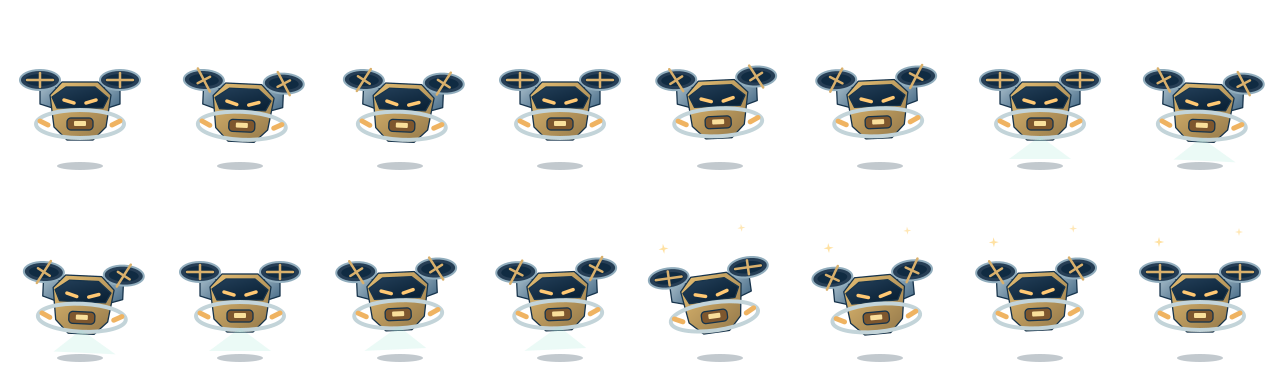
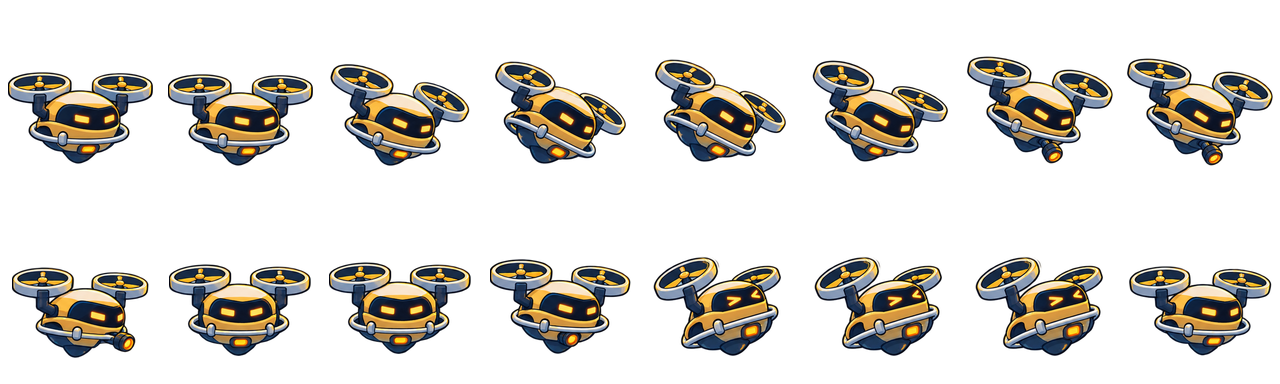
Physics Force Lab v5.0: illustrated characters, animation poses and Nova worlds

Changed region(s): [[0.0, 0.125, 1.0, 0.4375], [0.0, 0.6562, 1.0, 0.9375]]

diff --git a/apps/web/public/games/physics-force-lab/character-sprite-data.js b/apps/web/public/games/physics-force-lab/character-sprite-data.js
@@ -1,2 +1,2 @@
-/* Generated from tools/physics-character-art.cjs; original artwork. */
[1 lines of base64/hex data omitted]
+/* Packed from the illustrated pose sources; see tools/physics-art-source/README.md. */
[1 lines of base64/hex data omitted]

diff --git a/apps/web/public/games/physics-force-lab/adventure.js b/apps/web/public/games/physics-force-lab/adventure.js
@@ -7,6 +7,7 @@
   const player={x:80,y:420,vx:0,vy:0,ground:true,facing:1,animation:0,flash:0,landing:0,cheer:0};
   const C=window.PhysicsCharacterSprites,sprites=C?{hero:new C.Animator('player'),professor:new C.Animator('professor'),pip:new C.Animator('helper'),patrols:Array.from({length:4},()=>new C.Animator('maintenance'))}:null;
   C?.load(['player','professor','helper','maintenance']);
+  const worldArt=window.PhysicsWorldArt;
   const patrolBumps=[0,0,0,0];
   let width=960,height=540,scale=1,camera=0,time=0,last=performance.now(),saveElapsed=0,nearest=null,images={};
   let terrain=A.route(m),stationX=terrain.stations,endX=terrain.end,length=terrain.length;
@@ -26,6 +27,7 @@
   function launch(i,retry=false){
     if(!A.isUnlocked(profile,i))return;
     checkpoint();closeAll();profile.current=i;m=A.missions[i];terrain=A.route(m);stationX=terrain.stations;endX=terrain.end;length=terrain.length;
+    worldArt?.load(m.bg);
     if(retry)delete profile.checkpoints[m.id];
     cp=profile.checkpoints[m.id]||{x:80,solved:[],cells:[],labs:{}};
     profile.checkpoints[m.id]=cp;Object.assign(player,{x:cp.x,y:420,vx:0,vy:0,ground:true,flash:0,landing:0,cheer:0});
@@ -300,13 +302,14 @@
   }
   function draw(){
     ctx.clearRect(0,0,width,height);const bg=images[m.bg];
-    if(bg){const factor=Math.max(width/bg.width,height/bg.height),bw=bg.width*factor,bh=bg.height*factor;ctx.drawImage(bg,(width-bw)/2,(height-bh)/2,bw,bh);}else{const g=ctx.createLinearGradient(0,0,0,height);g.addColorStop(0,'#21475b');g.addColorStop(1,'#122739');ctx.fillStyle=g;ctx.fillRect(0,0,width,height);}
-    ctx.fillStyle='#071a2a77';ctx.fillRect(0,0,width,height);
+    if(worldArt)worldArt.background(ctx,m.bg,width,height,time,profile.settings.reduced);
+    else if(bg){const factor=Math.max(width/bg.width,height/bg.height),bw=bg.width*factor,bh=bg.height*factor;ctx.drawImage(bg,(width-bw)/2,(height-bh)/2,bw,bh);}else{const g=ctx.createLinearGradient(0,0,0,height);g.addColorStop(0,'#21475b');g.addColorStop(1,'#122739');ctx.fillStyle=g;ctx.fillRect(0,0,width,height);}
+    if(!worldArt){ctx.fillStyle='#071a2a77';ctx.fillRect(0,0,width,height);}
     ctx.save();ctx.translate(-camera,height-460);
     // Foreground architecture gives the painted background a coherent, traversable scale.
-    for(let x=0;x<length;x+=160){rect(x,420,156,42,'#28495a',2);rect(x,420,156,5,'#82b7b2',1);rect(x+14,437,128,7,'#1c3546',2);}
+    for(let x=0;x<length;x+=160){if(worldArt){worldArt.platform(ctx,x,420,160,42,m.color);continue;}rect(x,420,156,42,'#28495a',2);rect(x,420,156,5,'#82b7b2',1);rect(x+14,437,128,7,'#1c3546',2);}
     for(let x=350;x<length;x+=800){rect(x,250,9,170,'#29485b',2);rect(x-15,245,48,12,'#557e8c',4);ellipse(x+8,255,16,7,m.color);}
-    for(const p of terrain.platforms){rect(p.x,p.y,p.w,11,'#8bacb7',3);rect(p.x+10,p.y+11,8,420-p.y-11,'#3c6174',2);rect(p.x+p.w-18,p.y+11,8,420-p.y-11,'#3c6174',2);for(let j=0;j<6;j++)rect(p.x+18+j*25,p.y+3,12,4,m.color,1);}
+    for(const p of terrain.platforms){if(worldArt)worldArt.platform(ctx,p.x,p.y,p.w,14,m.color);else rect(p.x,p.y,p.w,11,'#8bacb7',3);rect(p.x+10,p.y+11,8,420-p.y-11,'#3c6174',2);rect(p.x+p.w-18,p.y+11,8,420-p.y-11,'#3c6174',2);for(let j=0;j<6;j++)rect(p.x+18+j*25,p.y+3,12,4,m.color,1);}
     // Persistent, visible workshop restoration: photographs, plants and repaired equipment.
     const wallTop=270-Math.max(0,Math.ceil(A.missions.length/5)-3)*27;
     rect(20,wallTop-13,260,377-wallTop,'#132e40',9);rect(33,wallTop,234,363-wallTop,'#275367',4);
@@ -343,7 +346,8 @@
   ['music','effects'].forEach(k=>{const input=$(k+'Volume');input.value=profile.settings[k]*100;$(k+'Output').textContent=input.value+'%';input.oninput=()=>{profile.settings[k]=Number(input.value)/100;$(k+'Output').textContent=input.value+'%';audio.unlock();audio.volumes();checkpoint();};});
   const reduced=window.matchMedia('(prefers-reduced-motion: reduce)').matches;profile.settings.reduced||=reduced;$('reduceMotion').checked=profile.settings.reduced;document.body.classList.toggle('reduce-motion',profile.settings.reduced);
   $('reduceMotion').onchange=()=>{profile.settings.reduced=$('reduceMotion').checked;document.body.classList.toggle('reduce-motion',profile.settings.reduced);checkpoint();};
-  A.missions.forEach(mission=>{const im=new Image();im.onload=()=>images[mission.bg]=im;im.src='./assets/backgrounds/'+mission.bg;});
+  if(worldArt)worldArt.load(m.bg);
+  else for(const bg of new Set(A.missions.map(mission=>mission.bg))){const im=new Image();im.onload=()=>images[bg]=im;im.src='./assets/backgrounds/'+bg;}
   $('campaignCount').textContent=`${A.missions.length} adventure missions`;
   const completed=Object.values(profile.completed).filter(Boolean).length;$('homeProgress').textContent=completed?`${completed}/${A.missions.length} missions restored • Workshop reputation: ${A.score(profile)}`:'Your workshop is waiting. Meet Pip and begin the recovery.';$('startBtn').textContent=Object.keys(profile.checkpoints).length?'Continue adventure':'Begin adventure';
   window.PhysicsRevisionUI?.create({document,A,R:window.PhysicsRevision,profile,storage,open,close});

diff --git a/apps/web/public/games/physics-force-lab/world-art.js b/apps/web/public/games/physics-force-lab/world-art.js
@@ -1,0 +1,54 @@
+(function(root,factory){const api=factory(root);if(typeof module==='object'&&module.exports)module.exports=api;else root.PhysicsWorldArt=api;})(typeof globalThis!=='undefined'?globalThis:this,function(root){
+  'use strict';
+  const locations=['workshop','motion','gravity','friction','energy','machines','circuit','magnet','waves','pressure','space','core'];
+  const aliases={
+    'bg-stadium-throw.png':'motion','bg-bicycle-momentum.png':'motion','bg-playground-slide.png':'motion',
+    'bg-water-rescue.png':'pressure','bg-orbit-space.png':'space','bg-mars-test.png':'space',
+    'bg-bridge-clearance.png':'machines','bg-springboard-energy.png':'energy','bg-storm-rescue.png':'pressure',
+    'bg-projectile-range.png':'motion','bg-windy-drone-delivery.png':'waves','bg-friction-track.png':'friction',
+    'bg-circuit-room.png':'circuit','bg-gravity-lab.png':'gravity','bg-safety-brake-zone.png':'friction',
+    'bg-magnet-zone.png':'magnet','bg-solar-boost.png':'energy','bg-cargo-ramp.png':'machines',
+    'bg-energy-park.png':'energy','bg-crane-yard.png':'machines','bg-magnetic-recycling.png':'magnet','bg-physics-boss.png':'core'
+  };
+  const originals=['force-lab','motion-track','gravity-chamber','friction-factory','energy-reactor','machines-workshop','circuit-lab','magnet-zone','wave-tunnel','pressure-dome','space-lab','quantum-core'];
+  originals.forEach((name,i)=>aliases[`level-${String(i+1).padStart(2,'0')}-${name}.png`]=locations[i]);
+  locations.forEach(name=>aliases[name+'.webp']=name);
+  const cache=new Map(),limit=3;
+  const keyFor=src=>String(src).split('/').pop().split('?')[0];
+  function location(src){return aliases[keyFor(src)]||'workshop';}
+  function source(src){return './assets/worlds/'+location(src)+'.webp';}
+  function load(src){
+    const key=location(src);if(cache.has(key)){const r=cache.get(key);cache.delete(key);cache.set(key,r);return r.promise;}
+    if(!root.Image)return Promise.resolve(false);
+    const record={image:null,ready:false,fallback:false,promise:null};
+    record.promise=new Promise(resolve=>{
+      const im=new root.Image();record.image=im;
+      im.onload=()=>{record.ready=true;resolve(true);};
+      im.onerror=()=>{if(!record.fallback){record.fallback=true;im.src='./assets/backgrounds/'+keyFor(src);}else resolve(false);};
+      im.src=source(src);
+    });cache.set(key,record);
+    while(cache.size>limit)cache.delete(cache.keys().next().value);
+    return record.promise;
+  }
+  function cover(iw,ih,w,h){const s=Math.max(w/iw,h/ih);return {x:(w-iw*s)/2,y:(h-ih*s)/2,w:iw*s,h:ih*s};}
+  function background(ctx,src,w,h,time=0,reduced=false){
+    load(src);const r=cache.get(location(src));ctx.save();
+    // One logical pixel of overscan also covers rounded physical canvas dimensions.
+    ctx.fillStyle='#091b30';ctx.fillRect(-1,-1,w+2,h+2);
+    if(r?.ready){const im=r.image,box=cover(im.naturalWidth,im.naturalHeight,w+2,h+2);ctx.drawImage(im,box.x-1,box.y-1,box.w,box.h);}
+    else{const g=ctx.createLinearGradient(0,0,0,h);g.addColorStop(0,'#193c70');g.addColorStop(1,'#091b30');ctx.fillStyle=g;ctx.fillRect(0,0,w,h);}
+    // Low-contrast atmosphere keeps foreground controls, characters and targets readable.
+    const shade=ctx.createLinearGradient(0,0,0,h);shade.addColorStop(0,'#0312290d');shade.addColorStop(.5,'#0312291a');shade.addColorStop(1,'#03122988');ctx.fillStyle=shade;ctx.fillRect(0,0,w,h);
+    if(!reduced){ctx.fillStyle='#b9fff5';for(let i=0;i<7;i++){const x=((i*157+31)%997)/997*w,y=h*(.12+((i*47)%53)/100),alpha=.025+.035*(1+Math.sin(time*.8+i));ctx.globalAlpha=alpha;ctx.beginPath();ctx.arc(x,y,1.3,0,Math.PI*2);ctx.fill();}}
+    ctx.restore();return true;
+  }
+  function platform(ctx,x,y,w,h,accent='#72e6d1',moving=false){
+    if(w<=0||h<=0)return;ctx.save();
+    const g=ctx.createLinearGradient(0,y,0,y+Math.min(h,30));g.addColorStop(0,'#738eaa');g.addColorStop(.22,'#344c68');g.addColorStop(1,'#142a45');ctx.fillStyle=g;ctx.beginPath();ctx.roundRect(x,y,w,h,Math.min(5,h/3));ctx.fill();
+    ctx.fillStyle='#d1e5e6';ctx.fillRect(x+2,y,Math.max(0,w-4),2);ctx.fillStyle=moving?'#ffd074':accent;ctx.fillRect(x+4,y+3,Math.max(0,w-8),3);
+    ctx.fillStyle='#101f36';for(let n=12;n<w-15;n+=32)ctx.fillRect(x+n,y+8,17,Math.min(4,Math.max(1,h-9)));
+    if(h>18){ctx.fillStyle='#8eabc1';for(const bx of [x+7,x+w-8]){ctx.beginPath();ctx.arc(bx,y+15,1.5,0,Math.PI*2);ctx.fill();}}
+    ctx.restore();
+  }
+  return {locations,aliases,location,source,load,cover,background,platform,status:()=>({limit,entries:[...cache].map(([key,r])=>({key,ready:r.ready,fallback:r.fallback}))})};
+});

diff --git a/apps/web/public/games/physics-force-lab/game.js b/apps/web/public/games/physics-force-lab/game.js
@@ -4,6 +4,7 @@
   const canvas = document.getElementById("gameCanvas");
   const ctx = canvas.getContext("2d");
   const characters=window.PhysicsCharacterSprites;
+  const worldArt=window.PhysicsWorldArt;
   const $ = id => document.getElementById(id);
 
   const ui = {
@@ -516,9 +517,10 @@
   }
 
   async function loadAssets(){
-    const paths=[...ASSETS.backgrounds,...Object.values(ASSETS.items),...Object.values(ASSETS.effects)];
+    const paths=[...(worldArt?[]:ASSETS.backgrounds),...Object.values(ASSETS.items),...Object.values(ASSETS.effects)];
     const loaded=await Promise.all(paths.map(loadImage));
     await characters?.load(['player','professor','helper','glitch','drone','magnetBot','boss']);
+    if(worldArt)await worldArt.load(ASSETS.backgrounds[level().bg]);
     paths.forEach((p,i)=>images[p]=loaded[i]);
   }
 
@@ -733,6 +735,7 @@
   }
 
   function buildLevel(){
+    worldArt?.load(ASSETS.backgrounds[level().bg]);
     state.transitioning=false;
     const lv=level();
     const targets=missionTargets();
@@ -1321,6 +1324,7 @@
   }
 
   function drawCover(src){
+    if(worldArt){worldArt.background(ctx,src,W,viewHeight,state.t,state.reduced);return;}
     const im=image(src);
     if(!im){ctx.fillStyle="#06122a";ctx.fillRect(0,0,W,viewHeight);return;}
     const r=Math.max(W/im.naturalWidth,viewHeight/im.naturalHeight);
@@ -1359,6 +1363,7 @@
 
   function drawWorld(){
     for(const pl of state.world.platforms){
+      if(worldArt){worldArt.platform(ctx,pl.x,pl.y,pl.w,pl.h,toolColor(),pl.type==="moving");continue;}
       if(pl.type==="ground"){
         ctx.fillStyle="rgba(3,8,18,.78)";
         ctx.fillRect(pl.x,pl.y,pl.w,pl.h);

diff --git a/apps/web/public/games/physics-force-lab/index.html b/apps/web/public/games/physics-force-lab/index.html
@@ -43,6 +43,7 @@
   </article></dialog>
   <script src="./character-sprite-data.js"></script>
   <script src="./character-sprites.js"></script>
+  <script src="./world-art.js"></script>
   <script src="./adventure-chapter2.js"></script>
   <script src="./adventure-grade7.js"></script>
   <script src="./adventure-heat-ui.js"></script>

diff --git a/apps/web/public/games/physics-force-lab/original-labs.html b/apps/web/public/games/physics-force-lab/original-labs.html
@@ -109,6 +109,7 @@
   </noscript>
   <script src="./character-sprite-data.js"></script>
   <script src="./character-sprites.js"></script>
+  <script src="./world-art.js"></script>
   <script src="./legacy-visuals.js"></script>
   <script src="./game.js"></script>
   <script src="./display-controls.js"></script>

diff --git a/docs/releases/physics-force-lab-v5.0.md b/docs/releases/physics-force-lab-v5.0.md
@@ -1,0 +1,45 @@
+# Physics Force Lab v5.0 — The Illustrated World of Nova
+
+All eight playable/NPC/enemy roles now use the polished illustrated style of the approved v4.9 thumbnail: the young scientist, Professor Newtonia, Pip, orange Glitch robot, attack drone, Magnet robot, purple GlitchBot and gold maintenance patrol. Ninety-six drawn source poses are packed into all 227 existing animation frames and 40 action clips. Running, jumping, landing, repairs, tool use, celebration, scanning, attacks, recoil and shutdown now use cover-matched artwork. Feet anchors, body bounds, clip durations and gameplay collision geometry retain their existing values.
+
+Twelve new environments replace the visible backgrounds throughout both modes: workshop, motion gallery, gravity chamber, friction factory, energy reactor, machines workshop, circuit causeway, magnet lab, wave/light gallery, pressure/water dome, orbital observatory and Quantum Core. Every existing mission/background reference selects a corresponding new location. Backgrounds fill the playfield without stretching, including portrait phones and short landscape screens. Shaded metal platforms use readable mint/amber upper edges. Quiet atmospheric lights respect reduced motion.
+
+## Scope and performance
+
+The 30 Adventure missions, 90 repairs, 55 revision concepts and 12 Original Labs remain intact. The educational models, mission definitions, progression, controls, fullscreen behavior, scoring, audio and save schemas are unchanged. The approved thumbnail is unchanged. Original image/procedural fallbacks remain available if new assets or their modules fail to load. No publication staging files or incremental ZIP is needed.
+
+All eight runtime RGBA PNG atlases total 3,159,887 bytes (about 3.01 MiB). Their dimensions and decoded pixel allocation remain the same as v4.6, below 32 MiB in total. The twelve 1024 × 576 WebP backgrounds total 1,425,816 bytes (about 1.36 MiB). The loader requests locations on demand, shares requests for aliases and retains only three unique locations in its active cache; it no longer eagerly loads all campaign backgrounds. Artwork source sheets live outside public assets and are not downloaded during play.
+
+## Artwork paths and method
+
+The built-in image-generation tool produced eight transparent pose sheets and six paired environment illustrations. Sharp only extracts complete silhouettes, packs/scales poses, crops environment panels and encodes image formats. It does not repaint the artwork. The final saved runtime assets are:
+
+- `apps/web/public/games/physics-force-lab/assets/characters/player.png`
+- `apps/web/public/games/physics-force-lab/assets/characters/professor.png`
+- `apps/web/public/games/physics-force-lab/assets/characters/helper.png`
+- `apps/web/public/games/physics-force-lab/assets/characters/glitch.png`
+- `apps/web/public/games/physics-force-lab/assets/characters/drone.png`
+- `apps/web/public/games/physics-force-lab/assets/characters/magnetBot.png`
+- `apps/web/public/games/physics-force-lab/assets/characters/boss.png`
+- `apps/web/public/games/physics-force-lab/assets/characters/maintenance.png`
+- Twelve `apps/web/public/games/physics-force-lab/assets/worlds/*.webp` files, named exactly for the twelve locations listed above (`workshop`, `motion`, `gravity`, `friction`, `energy`, `machines`, `circuit`, `magnet`, `waves`, `pressure`, `space`, `core`).
+
+The exact built-in prompt set, identity references and framing refinements are recorded in [`tools/physics-art-source/prompts.json`](../../tools/physics-art-source/prompts.json). The eight lossless source sheets use the same character basenames under `tools/physics-art-source/characters/`, with `.webp` extensions. Repacking instructions are in [the artwork README](../../tools/physics-art-source/README.md). Rebuild with `node tools/build-physics-characters.cjs`; no new package is required. The reviewed cast and environment contact sheets are `docs/releases/physics-force-lab-v5.0-cast.png` and `docs/releases/physics-force-lab-v5.0-worlds.webp`.
+
+## Validation
+
+- 101 Physics Node regression checks, including source/atlas hashes, transparency, padded edges, every clip, the background mapping, cover framing, cache eviction and image failure recovery.
+- Character browser regression covers player actions, all enemy attacks/hits, boss charge/fire/hit/defeat, scoring, pause, reduced motion, nine layouts and missing atlases/modules.
+- World-art browser regression decodes all twelve images in both entries, checks opaque viewport edges across six layouts, renders final Core fixtures, checks bounded caching and verifies play when new backgrounds, both background formats or the world-art module are blocked.
+- Existing revision and display/fullscreen checks cover thirteen viewport sizes, refresh, saved progress, rotation, touch targets, simulated safe areas and unsupported/denied fullscreen. Original Lab fixtures cover all twelve levels, with nine responsive layouts. Adventure smoke checks cover movement and repair controls in portrait/landscape.
+- Actual phone, desktop and final-boss screenshots were visually inspected. The Next.js 16 production build, TypeScript and JavaScript syntax checks pass. Shared game-page/score checks run locally and in GitHub Actions before merge.
+
+Browser checks use Chromium emulation. They are not a physical-device Safari certification or a new end-to-end playthrough of all 30 missions. All thirteen display sizes pass in the isolated suite. The new edge test waits for resize observers to settle before sampling canvas pixels.
+
+## Installation and deployment
+
+Merge the feature PR, pull `main` and use the existing Cloudflare/OpenNext build and deployment workflow. No save migration or database change is needed. The owner performs the Cloudflare deployment.
+
+## Exact additional source files
+
+Alongside the artwork files above, this release adds `world-art.js`, `physics-world-art.test.cjs`, `physics-world-art-browser.cjs`, `tools/physics-illustrated-poses.cjs`, the artwork README/prompt record and these three v5.0 release documents/contact sheets. It modifies `adventure.js`, `game.js`, `game.json`, both HTML entries, `character-sprite-data.js`, `physics-characters.test.cjs`, `tools/build-physics-characters.cjs` and the Physics CI workflow to run the new browser coverage. No other game or website component is modified.

diff --git a/tools/physics-art-source/README.md b/tools/physics-art-source/README.md
@@ -1,0 +1,11 @@
+# Physics Force Lab illustrated artwork
+
+The built-in image-generation tool created eight transparent 4 × 3 pose sheets and six paired environment illustrations using the approved v4.9 cover as the rendering reference. The v4.6 cast sheet supplied secondary robot identities. No image API key, paid CLI workflow, new dependency or runtime generation is required.
+
+`prompts.json` records the prompt set and the selected source/reference paths. `characters/{player,professor,helper,glitch,drone,magnetBot,boss,maintenance}.webp` preserve the selected pose sheets as lossless WebP, including alpha. These are build sources; browsers only download the packed runtime atlases. The original vector rig file retains the established clip timing and body-bound definitions.
+
+Run `node tools/build-physics-characters.cjs` from the repository root to repack the eight `apps/web/public/games/physics-force-lab/assets/characters/*.png` atlases, metadata and v5.0 cast contact sheet. Sharp is already a repository dependency. The builder extracts complete alpha-connected silhouettes, associates them with their source cells, retains antialiased edges, scales every pose of a character consistently and aligns the feet to the existing anchor. This avoids clipping wide poses at approximate generated grid boundaries. Drawn poses carry limb movement and actions; small secondary offsets add hover, breathing and recoil. The `physics-illustrated-poses.cjs` table maps those poses onto all 40 existing animation clips and 227 atlas frames. Runtime image dimensions and total decoded atlas allocation remain unchanged.
+
+The environment panels were cropped at their halfway split and centre-cropped to 1024 × 576 without stretching, then encoded as quality-88 WebP. Their twelve final runtime files live under `apps/web/public/games/physics-force-lab/assets/worlds/`: workshop, motion, gravity, friction, energy, machines, circuit, magnet, waves, pressure, space and core. The final encoded backgrounds are the repository source of truth; no image service is needed to build or deploy them. Sharp performs cropping/packing/encoding only and does not redraw the artwork.
+
+The unchanged `thumb.png` is the approved reference. Existing backgrounds and procedural fallback characters remain available if new art cannot load. `world-art.js` selects the new environment for every existing route reference, cover-crops it to the viewport, limits the image cache to three unique locations and suppresses atmospheric motion when reduced motion is enabled. Foreground platform coordinates and all collisions remain defined by the game runtimes.
